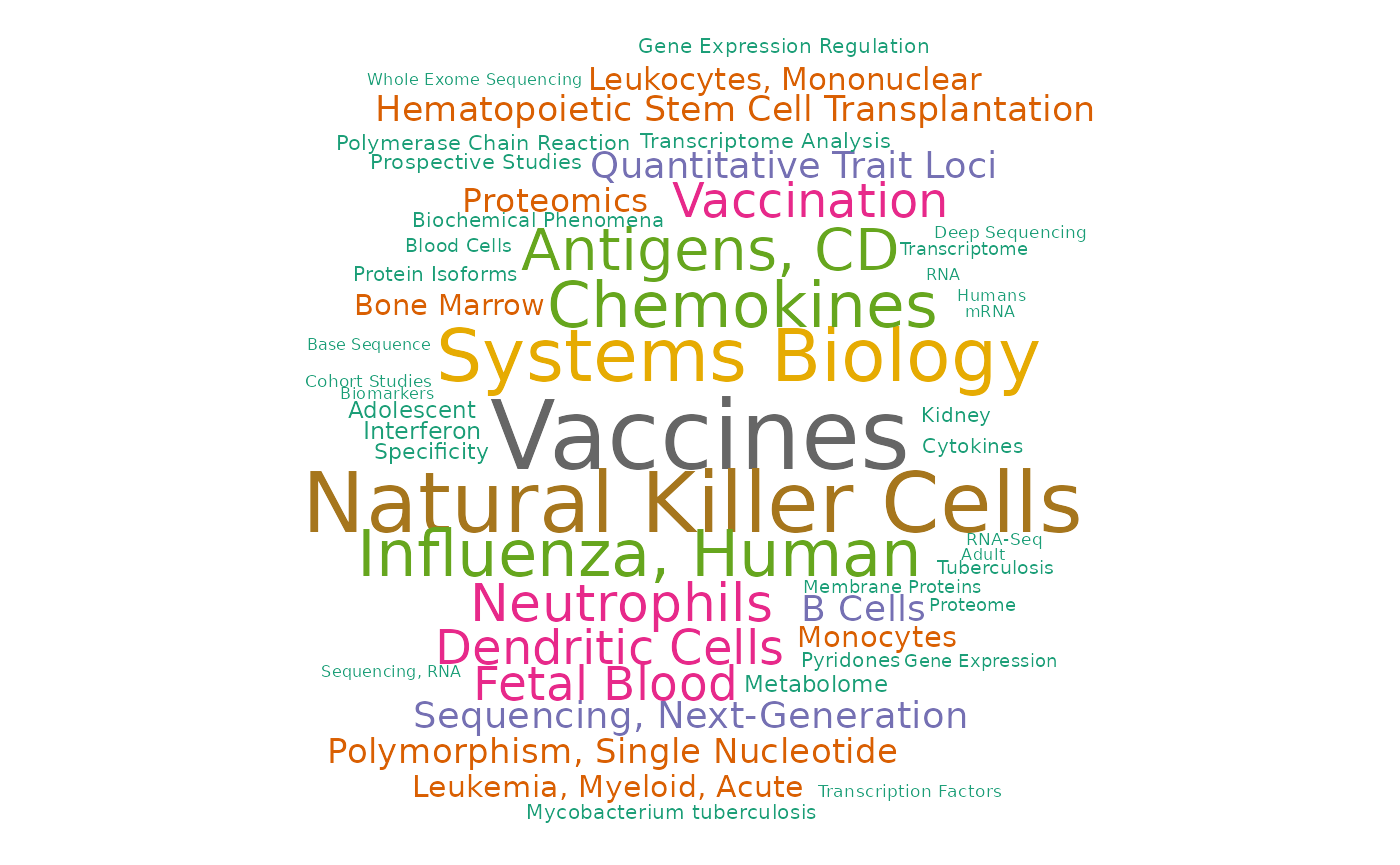
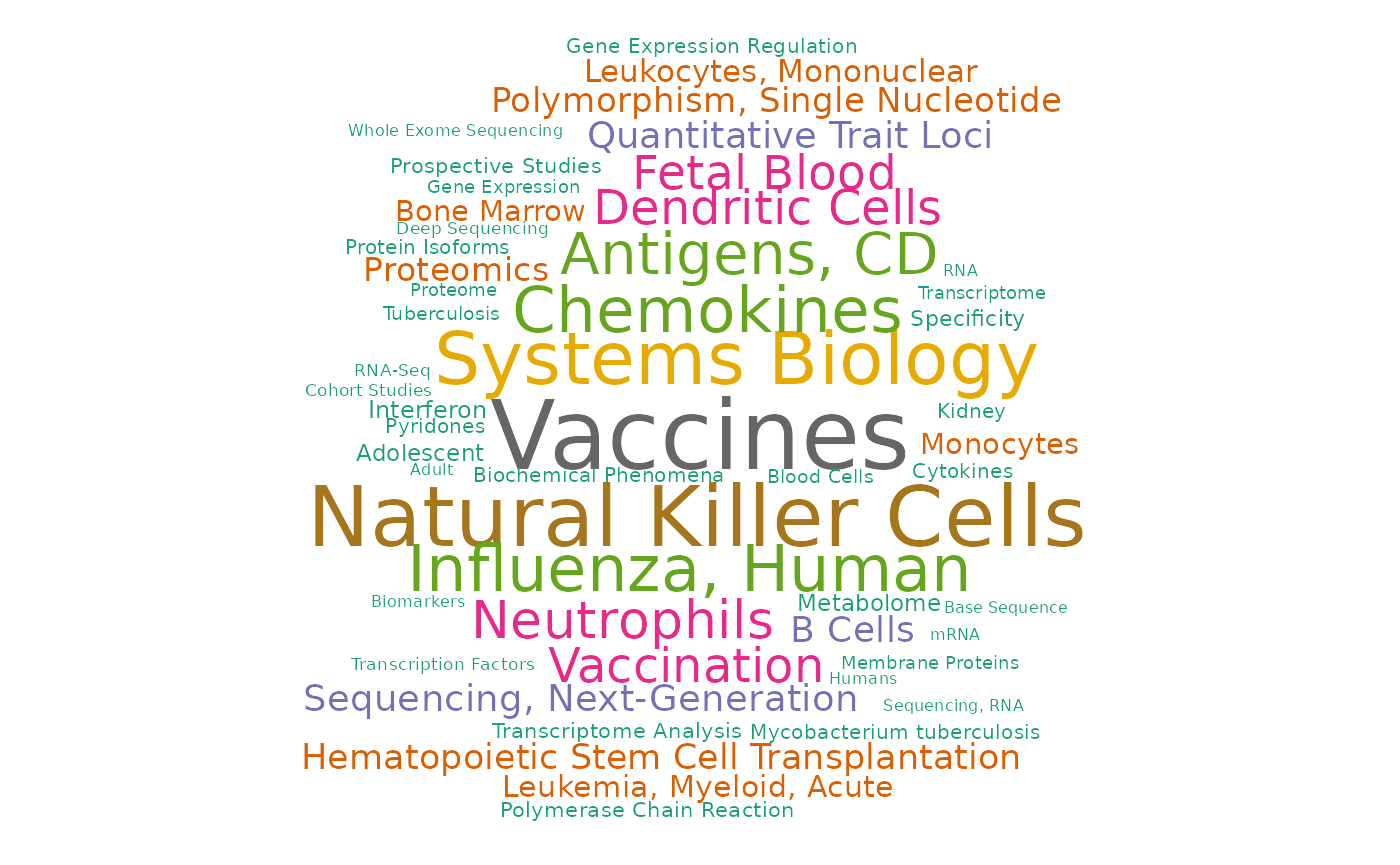
update GitHub pages

Changed region(s): [[0.215, 0.0312, 0.7986, 0.9676]]

diff --git a/articles/TCGA/TCGA_5studies.html b/articles/TCGA/TCGA_5studies.html
@@ -130,7 +130,7 @@
       <h1 data-toc-skip>Analyze TCGA datasets using RAVmodel</h1>
                         <h4 class="author">Sehyun Oh</h4>
             
-            <h4 class="date">2021-06-08</h4>
+            <h4 class="date">2021-06-09</h4>
       
       <small class="dont-index">Source: <a href="https://github.com/shbrief/GenomicSuperSignaturePaper/blob/master/vignettes/TCGA/TCGA_5studies.Rmd"><code>vignettes/TCGA/TCGA_5studies.Rmd</code></a></small>
       <div class="hidden name"><code>TCGA_5studies.Rmd</code></div>
@@ -373,10 +373,7 @@
 <span class="co">## scale, : Hematopoietic Stem Cell Transplantation could not be fit on page. It</span>
 <span class="co">## will not be plotted.</span>
 <span class="co">## Warning in wordcloud::wordcloud(words = all$word, freq = all$freq, scale</span>
-<span class="co">## = scale, : Transcriptome Analysis could not be fit on page. It will not be</span>
-<span class="co">## plotted.</span>
-<span class="co">## Warning in wordcloud::wordcloud(words = all$word, freq = all$freq, scale</span>
-<span class="co">## = scale, : Whole Exome Sequencing could not be fit on page. It will not be</span>
+<span class="co">## = scale, : Innate Immune Response could not be fit on page. It will not be</span>
 <span class="co">## plotted.</span></code></pre></div>
 <p><img src="TCGA_5studies_files/figure-html/unnamed-chunk-17-1.png" width="70%" height="70%"></p>
 </div>
@@ -468,7 +465,7 @@
 <div id="session-info" class="section level1">
 <h1 class="hasAnchor">
 <a href="#session-info" class="anchor"></a>Session Info</h1>
-<details><code>r     sessionInfo()     ## R version 4.1.0 (2021-05-18)     ## Platform: x86_64-pc-linux-gnu (64-bit)     ## Running under: Ubuntu 18.04.5 LTS     ##      ## Matrix products: default     ## BLAS:   /usr/lib/x86_64-linux-gnu/openblas/libblas.so.3     ## LAPACK: /usr/lib/x86_64-linux-gnu/libopenblasp-r0.2.20.so     ##      ## locale:     ##  [1] LC_CTYPE=en_US.UTF-8       LC_NUMERIC=C                   ##  [3] LC_TIME=en_US.UTF-8        LC_COLLATE=en_US.UTF-8         ##  [5] LC_MONETARY=en_US.UTF-8    LC_MESSAGES=en_US.UTF-8        ##  [7] LC_PAPER=en_US.UTF-8       LC_NAME=C                      ##  [9] LC_ADDRESS=C               LC_TELEPHONE=C                 ## [11] LC_MEASUREMENT=en_US.UTF-8 LC_IDENTIFICATION=C            ##      ## attached base packages:     ## [1] parallel  stats4    stats     graphics  grDevices utils     datasets      ## [8] methods   base          ##      ## other attached packages:     ##  [1] EBImage_4.34.0              ggplot2_3.3.3                   ##  [3] dplyr_1.0.6                 GenomicSuperSignature_1.1.3     ##  [5] SummarizedExperiment_1.22.0 Biobase_2.52.0                  ##  [7] GenomicRanges_1.44.0        GenomeInfoDb_1.28.0             ##  [9] IRanges_2.26.0              S4Vectors_0.30.0                ## [11] BiocGenerics_0.38.0         MatrixGenerics_1.4.0            ## [13] matrixStats_0.59.0          BiocStyle_2.20.0                ##      ## loaded via a namespace (and not attached):     ##   [1] colorspace_2.0-1       ggsignif_0.6.1         rjson_0.2.20               ##   [4] ellipsis_0.3.2         rio_0.5.26             rprojroot_2.0.2            ##   [7] circlize_0.4.12        XVector_0.32.0         fftwtools_0.9-11           ##  [10] GlobalOptions_0.1.2    fs_1.5.0               rstudioapi_0.13            ##  [13] clue_0.3-59            ggpubr_0.4.0           bit64_4.0.5                ##  [16] fansi_0.5.0            codetools_0.2-18       doParallel_1.0.16          ##  [19] cachem_1.0.5           knitr_1.33             jsonlite_1.7.2             ##  [22] Cairo_1.5-12.2         broom_0.7.6            cluster_2.1.2              ##  [25] dbplyr_2.1.1           png_0.1-7              readr_1.4.0                ##  [28] BiocManager_1.30.15    compiler_4.1.0         httr_1.4.2                 ##  [31] backports_1.2.1        assertthat_0.2.1       Matrix_1.3-3               ##  [34] fastmap_1.1.0          cli_2.5.0              htmltools_0.5.1.1          ##  [37] tools_4.1.0            gtable_0.3.0           glue_1.4.2                 ##  [40] GenomeInfoDbData_1.2.6 rappdirs_0.3.3         Rcpp_1.0.6                 ##  [43] carData_3.0-4          cellranger_1.1.0       jquerylib_0.1.4            ##  [46] pkgdown_1.6.1          vctrs_0.3.8            iterators_1.0.13           ##  [49] xfun_0.23              stringr_1.4.0          openxlsx_4.2.3             ##  [52] lifecycle_1.0.0        rstatix_0.7.0          zlibbioc_1.38.0            ##  [55] scales_1.1.1           ragg_1.1.2             hms_1.1.0                  ##  [58] RColorBrewer_1.1-2     ComplexHeatmap_2.8.0   yaml_2.2.1                 ##  [61] curl_4.3.1             memoise_2.0.0          sass_0.4.0                 ##  [64] stringi_1.6.2          RSQLite_2.2.7          highr_0.9                  ##  [67] desc_1.3.0             foreach_1.5.1          tiff_0.1-8                 ##  [70] filelock_1.0.2         zip_2.2.0              shape_1.4.6                ##  [73] rlang_0.4.11           pkgconfig_2.0.3        systemfonts_1.0.2          ##  [76] bitops_1.0-7           evaluate_0.14          lattice_0.20-44            ##  [79] purrr_0.3.4            htmlwidgets_1.5.3      bit_4.0.4                  ##  [82] tidyselect_1.1.1       magrittr_2.0.1         bookdown_0.22              ##  [85] R6_2.5.0               magick_2.7.2           generics_0.1.0             ##  [88] DelayedArray_0.18.0    DBI_1.1.1              withr_2.4.2                ##  [91] pillar_1.6.1           haven_2.4.1            foreign_0.8-81             ##  [94] abind_1.4-5            RCurl_1.98-1.3         tibble_3.1.2               ##  [97] crayon_1.4.1           car_3.0-10             wordcloud_2.6              ## [100] utf8_1.2.1             BiocFileCache_2.0.0    rmarkdown_2.8              ## [103] jpeg_0.1-8.1           GetoptLong_1.0.5       locfit_1.5-9.4             ## [106] grid_4.1.0             readxl_1.3.1           data.table_1.14.0          ## [109] blob_1.2.1             forcats_0.5.1          digest_0.6.27              ## [112] tidyr_1.1.3            textshaping_0.3.4      munsell_0.5.0              ## [115] bslib_0.2.5.1</code>
+<details><code>r     sessionInfo()     ## R version 4.1.0 (2021-05-18)     ## Platform: x86_64-pc-linux-gnu (64-bit)     ## Running under: Ubuntu 18.04.5 LTS     ##      ## Matrix products: default     ## BLAS:   /usr/lib/x86_64-linux-gnu/openblas/libblas.so.3     ## LAPACK: /usr/lib/x86_64-linux-gnu/libopenblasp-r0.2.20.so     ##      ## locale:     ##  [1] LC_CTYPE=en_US.UTF-8       LC_NUMERIC=C                   ##  [3] LC_TIME=en_US.UTF-8        LC_COLLATE=en_US.UTF-8         ##  [5] LC_MONETARY=en_US.UTF-8    LC_MESSAGES=en_US.UTF-8        ##  [7] LC_PAPER=en_US.UTF-8       LC_NAME=C                      ##  [9] LC_ADDRESS=C               LC_TELEPHONE=C                 ## [11] LC_MEASUREMENT=en_US.UTF-8 LC_IDENTIFICATION=C            ##      ## attached base packages:     ## [1] parallel  stats4    stats     graphics  grDevices utils     datasets      ## [8] methods   base          ##      ## other attached packages:     ##  [1] EBImage_4.34.0              ggplot2_3.3.3                   ##  [3] dplyr_1.0.6                 GenomicSuperSignature_1.1.3     ##  [5] SummarizedExperiment_1.22.0 Biobase_2.52.0                  ##  [7] GenomicRanges_1.44.0        GenomeInfoDb_1.28.0             ##  [9] IRanges_2.26.0              S4Vectors_0.30.0                ## [11] BiocGenerics_0.38.0         MatrixGenerics_1.4.0            ## [13] matrixStats_0.59.0          BiocStyle_2.20.0                ##      ## loaded via a namespace (and not attached):     ##   [1] colorspace_2.0-1       ggsignif_0.6.1         rjson_0.2.20               ##   [4] ellipsis_0.3.2         rio_0.5.26             rprojroot_2.0.2            ##   [7] circlize_0.4.12        XVector_0.32.0         fftwtools_0.9-11           ##  [10] GlobalOptions_0.1.2    fs_1.5.0               rstudioapi_0.13            ##  [13] clue_0.3-59            ggpubr_0.4.0           bit64_4.0.5                ##  [16] fansi_0.5.0            codetools_0.2-18       doParallel_1.0.16          ##  [19] cachem_1.0.5           knitr_1.33             jsonlite_1.7.2             ##  [22] Cairo_1.5-12.2         broom_0.7.6            cluster_2.1.2              ##  [25] dbplyr_2.1.1           png_0.1-7              readr_1.4.0                ##  [28] BiocManager_1.30.15    compiler_4.1.0         httr_1.4.2                 ##  [31] backports_1.2.1        assertthat_0.2.1       Matrix_1.3-4               ##  [34] fastmap_1.1.0          cli_2.5.0              htmltools_0.5.1.1          ##  [37] tools_4.1.0            gtable_0.3.0           glue_1.4.2                 ##  [40] GenomeInfoDbData_1.2.6 rappdirs_0.3.3         Rcpp_1.0.6                 ##  [43] carData_3.0-4          cellranger_1.1.0       jquerylib_0.1.4            ##  [46] pkgdown_1.6.1          vctrs_0.3.8            iterators_1.0.13           ##  [49] xfun_0.23              stringr_1.4.0          openxlsx_4.2.3             ##  [52] lifecycle_1.0.0        rstatix_0.7.0          zlibbioc_1.38.0            ##  [55] scales_1.1.1           ragg_1.1.2             hms_1.1.0                  ##  [58] RColorBrewer_1.1-2     ComplexHeatmap_2.8.0   yaml_2.2.1                 ##  [61] curl_4.3.1             memoise_2.0.0          sass_0.4.0                 ##  [64] stringi_1.6.2          RSQLite_2.2.7          highr_0.9                  ##  [67] desc_1.3.0             foreach_1.5.1          tiff_0.1-8                 ##  [70] filelock_1.0.2         zip_2.2.0              shape_1.4.6                ##  [73] rlang_0.4.11           pkgconfig_2.0.3        systemfonts_1.0.2          ##  [76] bitops_1.0-7           evaluate_0.14          lattice_0.20-44            ##  [79] purrr_0.3.4            htmlwidgets_1.5.3      bit_4.0.4                  ##  [82] tidyselect_1.1.1       magrittr_2.0.1         bookdown_0.22              ##  [85] R6_2.5.0               magick_2.7.2           generics_0.1.0             ##  [88] DelayedArray_0.18.0    DBI_1.1.1              withr_2.4.2                ##  [91] pillar_1.6.1           haven_2.4.1            foreign_0.8-81             ##  [94] abind_1.4-5            RCurl_1.98-1.3         tibble_3.1.2               ##  [97] crayon_1.4.1           car_3.0-10             wordcloud_2.6              ## [100] utf8_1.2.1             BiocFileCache_2.0.0    rmarkdown_2.8              ## [103] jpeg_0.1-8.1           GetoptLong_1.0.5       locfit_1.5-9.4             ## [106] grid_4.1.0             readxl_1.3.1           data.table_1.14.0          ## [109] blob_1.2.1             forcats_0.5.1          digest_0.6.27              ## [112] tidyr_1.1.3            textshaping_0.3.4      munsell_0.5.0              ## [115] bslib_0.2.5.1</code>
 </details>
 </div>
   </div>

diff --git a/articles/E-MTAB-2452/E-MTAB-2452.html b/articles/E-MTAB-2452/E-MTAB-2452.html
@@ -130,7 +130,7 @@
       <h1 data-toc-skip>PCA E-MTAB-2452</h1>
                         <h4 class="author">Sehyun Oh</h4>
             
-            <h4 class="date">June 08, 2021</h4>
+            <h4 class="date">June 09, 2021</h4>
       
       <small class="dont-index">Source: <a href="https://github.com/shbrief/GenomicSuperSignaturePaper/blob/master/vignettes/E-MTAB-2452/E-MTAB-2452.Rmd"><code>vignettes/E-MTAB-2452/E-MTAB-2452.Rmd</code></a></small>
       <div class="hidden name"><code>E-MTAB-2452.Rmd</code></div>
@@ -160,10 +160,10 @@
 <p>This expression data is pre-processed by Greene lab and available <a href="https://github.com/greenelab/multi-plier/blob/master/data/expression_data/E-MTAB-2452_hugene11st_SCANfast_with_GeneSymbol.pcl">here</a>.</p>
 <div class="sourceCode" id="cb2"><pre class="downlit sourceCode r">
 <code class="sourceCode R"><span class="va">annot.dat</span> <span class="op">&lt;-</span> <span class="fu">readr</span><span class="fu">::</span><span class="fu"><a href="https://readr.tidyverse.org/reference/read_delim.html">read_tsv</a></span><span class="op">(</span><span class="st">"data/E-MTAB-2452_hugene11st_SCANfast_with_GeneSymbol.pcl"</span><span class="op">)</span> <span class="op"><a href="https://magrittr.tidyverse.org/reference/pipe.html">%&gt;%</a></span> <span class="va">as.data.frame</span>
-<span class="fu"><a href="https://rdrr.io/pkg/BiocGenerics/man/row_colnames.html">rownames</a></span><span class="op">(</span><span class="va">annot.dat</span><span class="op">)</span> <span class="op">&lt;-</span> <span class="va">annot.dat</span><span class="op">[</span>, <span class="fl">2</span><span class="op">]</span>
+<span class="fu"><a href="https://rdrr.io/r/base/colnames.html">rownames</a></span><span class="op">(</span><span class="va">annot.dat</span><span class="op">)</span> <span class="op">&lt;-</span> <span class="va">annot.dat</span><span class="op">[</span>, <span class="fl">2</span><span class="op">]</span>
 
-<span class="va">dataset</span> <span class="op">&lt;-</span> <span class="fu"><a href="https://rdrr.io/r/base/matrix.html">as.matrix</a></span><span class="op">(</span><span class="va">annot.dat</span><span class="op">[</span>, <span class="fl">3</span><span class="op">:</span><span class="fu"><a href="https://rdrr.io/pkg/BiocGenerics/man/nrow.html">ncol</a></span><span class="op">(</span><span class="va">annot.dat</span><span class="op">)</span><span class="op">]</span><span class="op">)</span>
-<span class="fu"><a href="https://rdrr.io/pkg/BiocGenerics/man/row_colnames.html">rownames</a></span><span class="op">(</span><span class="va">dataset</span><span class="op">)</span> <span class="op">&lt;-</span> <span class="va">annot.dat</span><span class="op">$</span><span class="va">GeneSymbol</span>
+<span class="va">dataset</span> <span class="op">&lt;-</span> <span class="fu"><a href="https://rdrr.io/r/base/matrix.html">as.matrix</a></span><span class="op">(</span><span class="va">annot.dat</span><span class="op">[</span>, <span class="fl">3</span><span class="op">:</span><span class="fu"><a href="https://rdrr.io/r/base/nrow.html">ncol</a></span><span class="op">(</span><span class="va">annot.dat</span><span class="op">)</span><span class="op">]</span><span class="op">)</span>
+<span class="fu"><a href="https://rdrr.io/r/base/colnames.html">rownames</a></span><span class="op">(</span><span class="va">dataset</span><span class="op">)</span> <span class="op">&lt;-</span> <span class="va">annot.dat</span><span class="op">$</span><span class="va">GeneSymbol</span>
 <span class="va">dataset</span><span class="op">[</span><span class="fl">1</span><span class="op">:</span><span class="fl">2</span>, <span class="fl">1</span><span class="op">:</span><span class="fl">4</span><span class="op">]</span>
 <span class="co">#&gt;      CD14_triad0058_1.CEL CD14_triad0058_2.CEL CD14_triad0058_3.CEL</span>
 <span class="co">#&gt; A1BG         1.154439e-01           0.17987252           0.17031624</span>
@@ -173,11 +173,11 @@
 <span class="co">#&gt; NAT2           -0.1269907</span></code></pre></div>
 <p>Label each sample with the known cell types.</p>
 <div class="sourceCode" id="cb3"><pre class="downlit sourceCode r">
-<code class="sourceCode R"><span class="va">cellType</span> <span class="op">&lt;-</span> <span class="fu"><a href="https://rdrr.io/r/base/grep.html">gsub</a></span><span class="op">(</span><span class="st">"_.*$"</span>, <span class="st">""</span>, <span class="fu"><a href="https://rdrr.io/pkg/BiocGenerics/man/row_colnames.html">colnames</a></span><span class="op">(</span><span class="va">dataset</span><span class="op">)</span><span class="op">)</span>
+<code class="sourceCode R"><span class="va">cellType</span> <span class="op">&lt;-</span> <span class="fu"><a href="https://rdrr.io/r/base/grep.html">gsub</a></span><span class="op">(</span><span class="st">"_.*$"</span>, <span class="st">""</span>, <span class="fu"><a href="https://rdrr.io/r/base/colnames.html">colnames</a></span><span class="op">(</span><span class="va">dataset</span><span class="op">)</span><span class="op">)</span>
 <span class="va">cellType</span> <span class="op">&lt;-</span> <span class="fu"><a href="https://rdrr.io/r/base/grep.html">gsub</a></span><span class="op">(</span><span class="st">"CD4"</span>, <span class="st">"CD4,T cell"</span>, <span class="va">cellType</span><span class="op">)</span>
 <span class="va">cellType</span> <span class="op">&lt;-</span> <span class="fu"><a href="https://rdrr.io/r/base/grep.html">gsub</a></span><span class="op">(</span><span class="st">"CD14"</span>, <span class="st">"CD14,monocyte"</span>, <span class="va">cellType</span><span class="op">)</span>
 <span class="va">cellType</span> <span class="op">&lt;-</span> <span class="fu"><a href="https://rdrr.io/r/base/grep.html">gsub</a></span><span class="op">(</span><span class="st">"CD16"</span>, <span class="st">"CD16,neutrophil"</span>, <span class="va">cellType</span><span class="op">)</span>
-<span class="fu"><a href="https://rdrr.io/r/base/names.html">names</a></span><span class="op">(</span><span class="va">cellType</span><span class="op">)</span> <span class="op">&lt;-</span> <span class="fu"><a href="https://rdrr.io/pkg/BiocGenerics/man/row_colnames.html">colnames</a></span><span class="op">(</span><span class="va">dataset</span><span class="op">)</span></code></pre></div>
+<span class="fu"><a href="https://rdrr.io/r/base/names.html">names</a></span><span class="op">(</span><span class="va">cellType</span><span class="op">)</span> <span class="op">&lt;-</span> <span class="fu"><a href="https://rdrr.io/r/base/colnames.html">colnames</a></span><span class="op">(</span><span class="va">dataset</span><span class="op">)</span></code></pre></div>
 </div>
 <div id="ravmodel" class="section level2">
 <h2 class="hasAnchor">
@@ -445,7 +445,7 @@
 <span class="co">#&gt;  [91] curl_4.3.1             png_0.1-7              ggsignif_0.6.1        </span>
 <span class="co">#&gt;  [94] bslib_0.2.5.1          stringi_1.6.2          ps_1.6.0              </span>
 <span class="co">#&gt;  [97] highr_0.9              desc_1.3.0             gdtools_0.2.3         </span>
-<span class="co">#&gt; [100] forcats_0.5.1          lattice_0.20-44        Matrix_1.3-3          </span>
+<span class="co">#&gt; [100] forcats_0.5.1          lattice_0.20-44        Matrix_1.3-4          </span>
 <span class="co">#&gt; [103] vctrs_0.3.8            pillar_1.6.1           lifecycle_1.0.0       </span>
 <span class="co">#&gt; [106] BiocManager_1.30.15    jquerylib_0.1.4        GlobalOptions_0.1.2   </span>
 <span class="co">#&gt; [109] cowplot_1.1.1          flextable_0.6.6        data.table_1.14.0     </span>

diff --git a/articles/others/repeat_Fig5_Pathway_Separation.html b/articles/others/repeat_Fig5_Pathway_Separation.html
@@ -281,7 +281,7 @@
 #&gt;  [19] jsonlite_1.7.2         Cairo_1.5-12.2         broom_0.7.6           
 #&gt;  [22] cluster_2.1.2          dbplyr_2.1.1           png_0.1-7             
 #&gt;  [25] httr_1.4.2             BiocManager_1.30.15    compiler_4.1.0        
-#&gt;  [28] backports_1.2.1        assertthat_0.2.1       Matrix_1.3-3          
+#&gt;  [28] backports_1.2.1        assertthat_0.2.1       Matrix_1.3-4          
 #&gt;  [31] fastmap_1.1.0          htmltools_0.5.1.1      tools_4.1.0           
 #&gt;  [34] gtable_0.3.0           glue_1.4.2             GenomeInfoDbData_1.2.6
 #&gt;  [37] rappdirs_0.3.3         Rcpp_1.0.6             carData_3.0-4         

diff --git a/articles/CRC/manuscript_Figures.html b/articles/CRC/manuscript_Figures.html
@@ -130,7 +130,7 @@
       <h1 data-toc-skip>Fig 3. Sample scores for disease subtyping and metadata characterization</h1>
                         <h4 class="author">Sehyun Oh</h4>
             
-            <h4 class="date">2021-06-08</h4>
+            <h4 class="date">2021-06-09</h4>
       
       <small class="dont-index">Source: <a href="https://github.com/shbrief/GenomicSuperSignaturePaper/blob/master/vignettes/CRC/manuscript_Figures.Rmd"><code>vignettes/CRC/manuscript_Figures.Rmd</code></a></small>
       <div class="hidden name"><code>manuscript_Figures.Rmd</code></div>

diff --git a/articles/CRC/metadata_based_search.html b/articles/CRC/metadata_based_search.html
@@ -130,7 +130,7 @@
       <h1 data-toc-skip>Find the signature using metadata</h1>
                         <h4 class="author">Sehyun Oh</h4>
             
-            <h4 class="date">2021-06-08</h4>
+            <h4 class="date">2021-06-09</h4>
       
       <small class="dont-index">Source: <a href="https://github.com/shbrief/GenomicSuperSignaturePaper/blob/master/vignettes/CRC/metadata_based_search.Rmd"><code>vignettes/CRC/metadata_based_search.Rmd</code></a></small>
       <div class="hidden name"><code>metadata_based_search.Rmd</code></div>

diff --git a/articles/CRC/PCSS_vs_RAV.html b/articles/CRC/PCSS_vs_RAV.html
@@ -130,7 +130,7 @@
       <h1 data-toc-skip>Compare PCSS and RAVs</h1>
                         <h4 class="author">Sehyun Oh</h4>
             
-            <h4 class="date">2021-06-08</h4>
+            <h4 class="date">2021-06-09</h4>
       
       <small class="dont-index">Source: <a href="https://github.com/shbrief/GenomicSuperSignaturePaper/blob/master/vignettes/CRC/PCSS_vs_RAV.Rmd"><code>vignettes/CRC/PCSS_vs_RAV.Rmd</code></a></small>
       <div class="hidden name"><code>PCSS_vs_RAV.Rmd</code></div>
